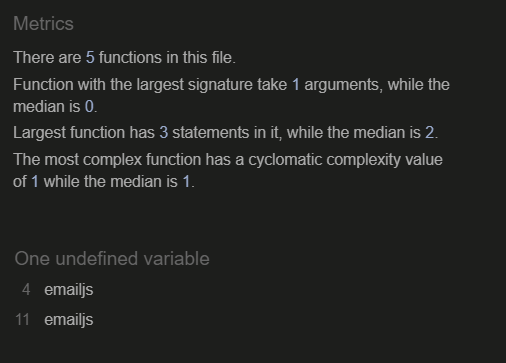
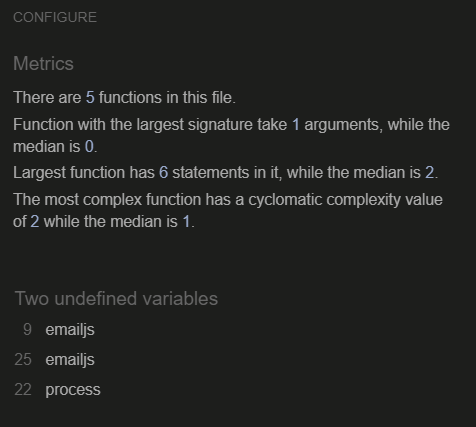
added changed to readme md  file to fix the table of content

diff --git a/assets/js/form.js b/assets/js/form.js
@@ -1,11 +1,16 @@
+// This script was published for emailJs application on  https://www.emailjs.com/docs/tutorial/creating-contact-form/
+// I added to it if condition which checks if textarea is empty.
+// In addition, I added command to move the user to the home page after feedback is submitted.
+
 /*jshint esversion: 6 */
+// we initialize the SDK with our public key
 (function() {
     // https://dashboard.emailjs.com/admin/account
     emailjs.init('ZeVrVpnrISRsAcECy');
 })();
 
-
-
+//We get the textarea value from the form. If it is  empty we stop execution
+//If value has a message I send it to my email with emailJs
 window.onload = function() {
     document.getElementById('contact-form').addEventListener('submit', function(event) {
         event.preventDefault();
@@ -21,10 +26,10 @@ window.onload = function() {
             .then(function() {
                 console.log('SUCCESS!');
                 window.location.href="/arcadegame/index.html";
-                window.alert("Your Feedback was received. Thank you")
+                window.alert("Your Feedback was received. Thank you");
             }, function(error) {
                 console.log('FAILED...', error);
-                window.alert( "Unfortunately, your feedback was not submitted successfully. Please try again later.")
+                window.alert( "Unfortunately, your feedback was not submitted successfully. Please try again later.");
             });
     });
-}
+};

diff --git a/README.md b/README.md
@@ -46,6 +46,8 @@
 
     2. [CSS Validation](#CSS-validation)
 
+    2. [JS Validation](#JS-Validation)
+
     3. [Accessibility](#accessibility)
 
     4. [Performance](#performance)
@@ -345,7 +347,7 @@ The JS of the website was validated using the https://jshint.com/ Validation Ser
 
 <details><summary>indxex.js</summary>
 
-https://jshint.com/  has shown "One Undefined variables" and "Four unused variables" for index.js. These are false positive alerts, because if I delete undefined and unsed variables the code will stop working
+https://jshint.com/  has shown "One Undefined variables" and "Four unused variables" for index.js. These are false positive alerts. all "unused variables" are in use.  KeyboardEvent is defined and used to move user.
 
 
 
@@ -358,7 +360,8 @@ https://jshint.com/  has shown "One Undefined variables" and "Four unused variab
 
 <details><summary>form.js</summary>
 
-https://jshint.com/  has shown "One Undefined variables". This is a false postive alert since the function is defined and if deleted the script will stop working
+https://jshint.com/  has shown "Two Undefined variables". This is a false postive alert. emailjs is API variable. process variable is language variable
+which is used to terminate the script.
 
 <img src="docs\js-validator\form.js-valiation.png">
 
